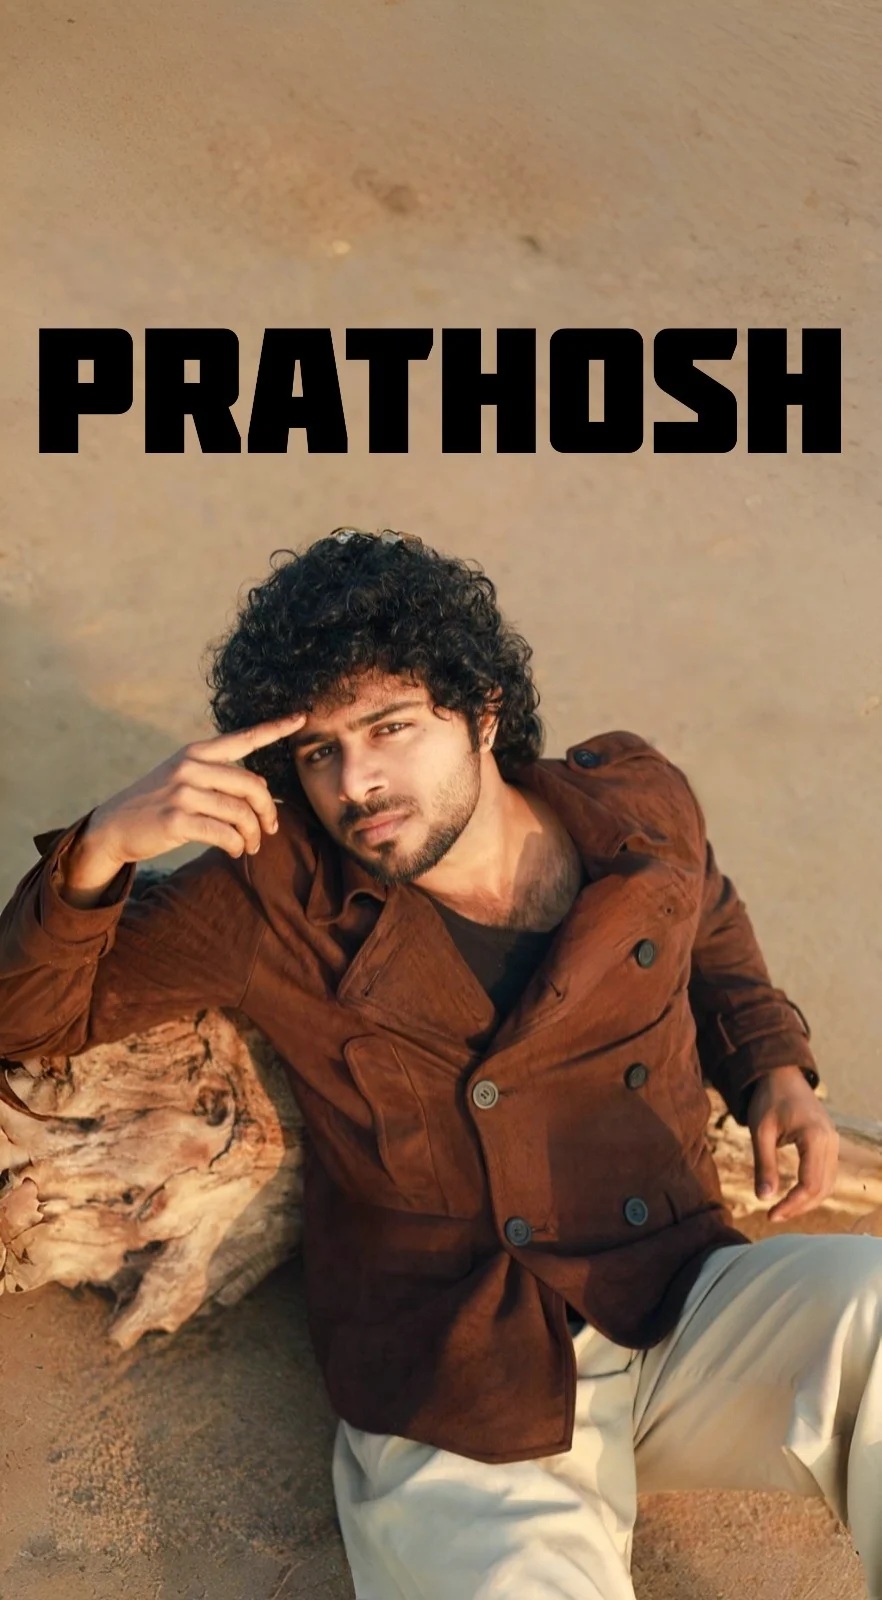
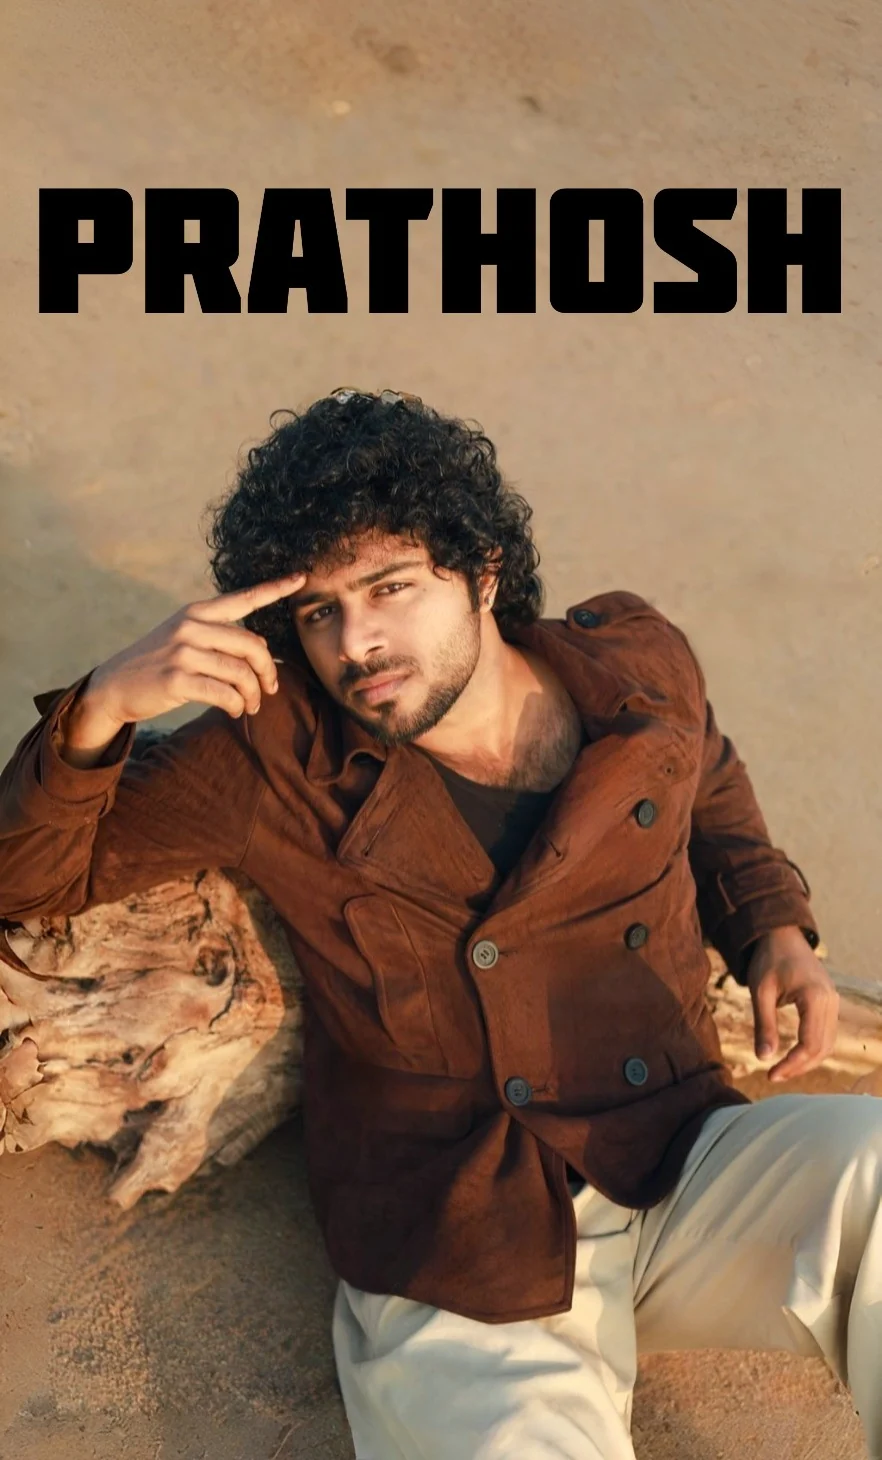
Trim the top of the phone hero photo
Crops 140 px of sand off the top (882 x 1600 to 882 x 1460) so his name
sits closer to the top. The uncropped original is kept in assets-raw/.

diff --git a/index.html b/index.html
@@ -35,7 +35,7 @@
   <main>
     <!-- Phone hero: his photo with his name, nothing on top (hidden on desktop for now) -->
     <section class="mhero" id="mhero" aria-label="Prathosh">
-      <img src="img/hero-mobile.webp" width="882" height="1600" alt="Prathosh in a brown suede jacket, sitting on the sand, with his name above him" fetchpriority="high" />
+      <img src="img/hero-mobile.webp" width="882" height="1460" alt="Prathosh in a brown suede jacket, sitting on the sand, with his name above him" fetchpriority="high" />
     </section>
 
     <!-- 01 · Profile: who he is + every way to reach him, before anything else -->
